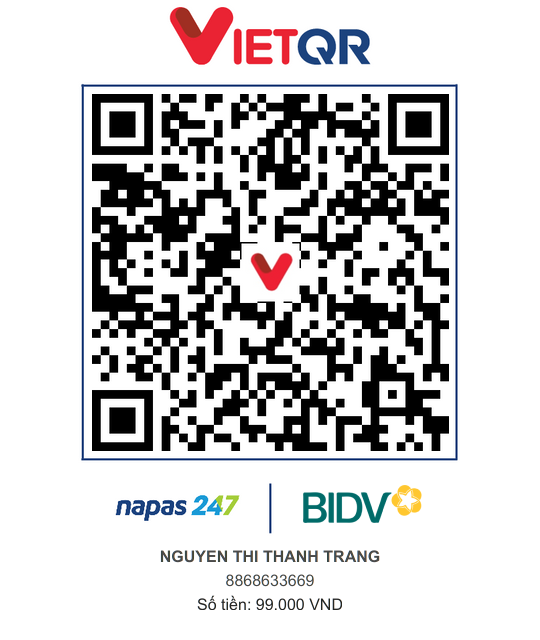
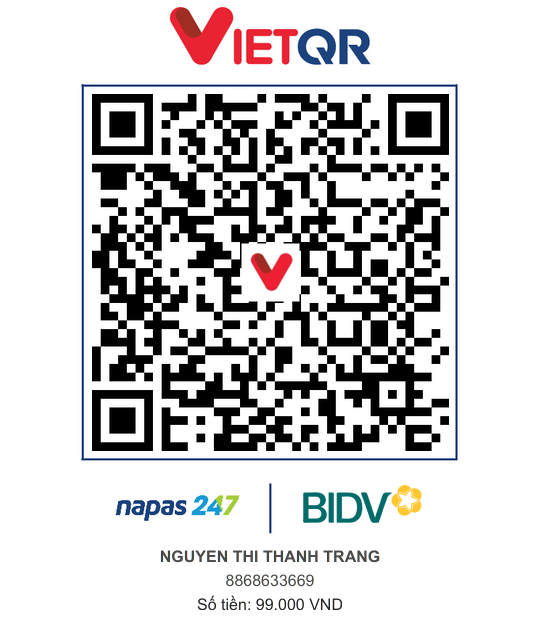
Sửa nốt mã nội dung chuyển khoản CAMNANG cũ -> HANHTRINH (QR + 3 trang)

Changed region(s): [[0.1481, 0.125, 0.8296, 0.7188]]

diff --git a/mua-planner.html b/mua-planner.html
@@ -235,7 +235,7 @@
       <div class="buoc-o">
         <span class="n">01</span>
         <b>Quét mã và chuyển 99.000đ</b>
-        <span>Mã đã điền sẵn số tiền. Phần nội dung chuyển khoản, bạn ghi <code>CAMNANG</code> kèm số điện thoại của mình.</span>
+        <span>Mã đã điền sẵn số tiền. Phần nội dung chuyển khoản, bạn ghi <code>HANHTRINH</code> kèm số điện thoại của mình.</span>
       </div>
       <div class="buoc-o">
         <span class="n">02</span>
@@ -256,7 +256,7 @@
         <div class="d"><span>Số tài khoản</span><b>8868633669</b></div>
         <div class="d"><span>Chủ tài khoản</span><b>NGUYEN THI THANH TRANG</b></div>
         <div class="d"><span>Số tiền</span><b>99.000đ</b></div>
-        <div class="d"><span>Nội dung</span><b>CAMNANG + số điện thoại</b></div>
+        <div class="d"><span>Nội dung</span><b>HANHTRINH + số điện thoại</b></div>
         <p class="luu">Tài khoản nhận của Dolinhanh Bridal. Chuyển xong nhớ nhắn Zalo kèm ảnh để bên mình gửi file ngay — nếu quá hai tiếng chưa nhận được, bạn nhắn lại giúp, đừng chờ.</p>
         <div class="qr-nut2">
           <a class="nut" href="https://zalo.me/0359950588">Nhắn Zalo 035 995 0588</a>

diff --git a/nv-k4m8p2.html b/nv-k4m8p2.html
@@ -115,7 +115,7 @@
       <div class="b"><i>02</i><div><b>Khách đọc xong, hỏi về hành trình</b>
         <span>Gửi link trang mua. Trong ebook đã có sẵn mã QR nên nhiều khách tự chuyển luôn, không nhắn lại.</span></div></div>
       <div class="b"><i>03</i><div><b>Khách gửi ảnh chuyển khoản</b>
-        <span>Kiểm tra: đúng 99.000đ, nội dung có chữ CAMNANG. Nghi ngờ thì báo quản lý, đừng tự quyết.</span></div></div>
+        <span>Kiểm tra: đúng 99.000đ, nội dung có chữ HANHTRINH. Nghi ngờ thì báo quản lý, đừng tự quyết.</span></div></div>
       <div class="b"><i>04</i><div><b>Gửi khách hai thứ</b>
         <span>Link đọc online + file PDF. Gửi trong ngày, đừng để khách chờ qua hôm sau.</span></div></div>
     </div>

diff --git a/dress-guide-doc.html b/dress-guide-doc.html
@@ -820,7 +820,7 @@ th,td{padding:6px 4px}
     <div class="qr"><img src="planner-anh/qr-99k.png" alt="Mã QR chuyển khoản 99.000đ"></div>
     <div class="noi">
       <p class="so">99.000đ<em>80 trang</em></p>
-      <p class="cach">Quét mã bên cạnh — mã đã điền sẵn số tiền. Nội dung chuyển khoản ghi <b>CAMNANG</b> kèm số điện thoại của bạn, rồi nhắn Zalo <b>035 995 0588</b> để nhận file ngay trong ngày.</p>
+      <p class="cach">Quét mã bên cạnh — mã đã điền sẵn số tiền. Nội dung chuyển khoản ghi <b>HANHTRINH</b> kèm số điện thoại của bạn, rồi nhắn Zalo <b>035 995 0588</b> để nhận file ngay trong ngày.</p>
       <p class="tk">BIDV · <b>8868633669</b> · NGUYEN THI THANH TRANG</p>
     </div>
   </div>
